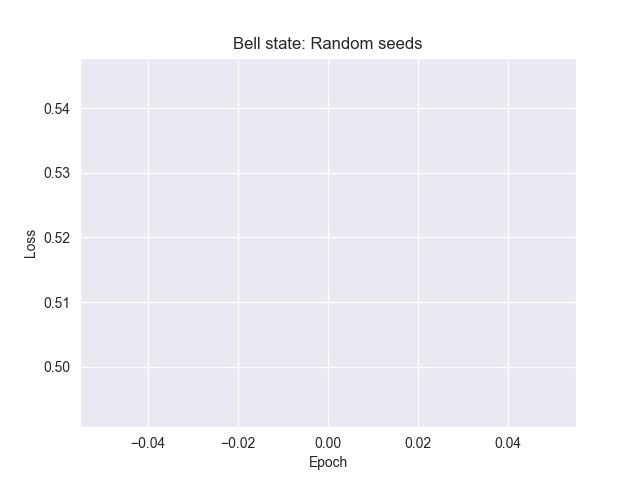
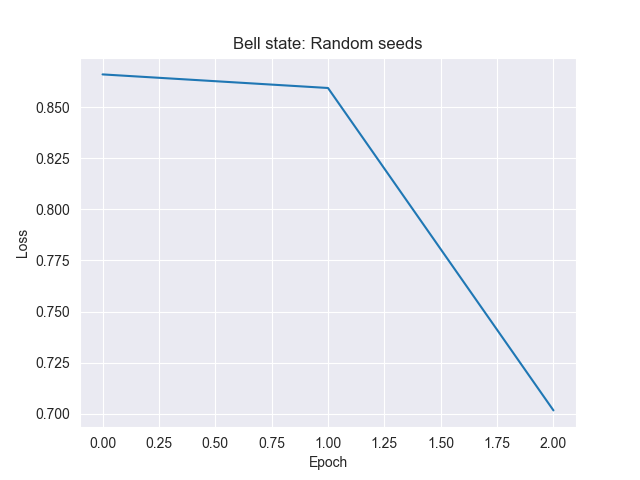
Lets go?

diff --git a/main.py b/main.py
@@ -238,7 +238,7 @@ def train(H_operator, ansatz, n_epochs, target_data, n_steps=10, lr=0.1, optim_m
 
     loss_list=[]
     epoch_list=[]
-
+    norm_list=[]
     tracing_q, rotational_indices=getUtilityParameters(ansatz)
 
     #print(tracing_q, rotational_indices, n_qubits_ansatz)
@@ -275,6 +275,7 @@ def train(H_operator, ansatz, n_epochs, target_data, n_steps=10, lr=0.1, optim_m
         print(f'Loss: {loss, loss_list}')
         norm=np.linalg.norm((target_data-p_QBM), ord=1)
         #Appending loss and epochs
+        norm_list.append(norm)
         loss_list.append(loss)
         epoch_list.append(epoch)
 
@@ -316,7 +317,7 @@ def train(H_operator, ansatz, n_epochs, target_data, n_steps=10, lr=0.1, optim_m
     
     print(f'Time to optimize: {time.time()-optimize_time}')
 
-    return loss_list, norm, p_QBM
+    return np.array(loss_list), np.array(norm_list), p_QBM
 
 
 def multiple_simulations(n_sims, initial_H, ans, epochs, target_data,opt_met , l_r, steps):
@@ -557,14 +558,49 @@ def find_best_alpha(n_steps, alpha_space, name=None):
     return
 
 
+def learningrate_investigation(n_sims, initial_H, ans, epochs, target_data,opt_met , l_r, steps, name):
+    seed_error_l1=[]
+ 
+    for i in range(n_sims):
+        print(f'Seed: {i} of {n_sims}')
+        H_init_val=np.random.uniform(low=-1., high=1., size=len(initial_H))
+        print(H_init_val)
+        
+        for term_H in range(len(initial_H)):
+            for qub in range(len(initial_H[term_H])):
+                initial_H[term_H][qub][0]=H_init_val[term_H]
+        
+        time_1epoch=time.time()
+        loss_temp, norm_temp, dist=train(initial_H, copy.deepcopy(ans), epochs, target_data, n_steps=steps, lr=l_r, optim_method=opt_met, plot=False)
+        time_1epoch_end=time.time()
+        seed_error_l1.append(np.array([loss_temp, norm_temp]))
+        
+        print(f'Time for one loop: {time_1epoch_end-time_1epoch}')
+    
+    seed_error_l1=np.array(seed_error_l1)
+    np.save('results/arrays/learningrate/'+str(l_r)+name+'.npy', seed_error_l1)
+
+    return 
+
+
+
+
+
+
+
+
+
+
+
+
 def main():
     #np.random.seed(1357)
     np.random.seed(2022)
 
-    number_of_seeds=2
+    number_of_seeds=10
     learningRate=0.1
     ite_steps=10
-    epochs=25
+    epochs=3
     optimizing_method='Amsgrad'
 
     ansatz2=  [['ry',0, 0], ['ry',0, 1], ['ry',0, 2], ['ry',0, 3], 
@@ -580,7 +616,7 @@ def main():
 
     p_data2=np.array([0.5, 0, 0, 0.5])
     
-    p_data1=np.array([0.2, 0.8])
+    p_data1=np.array([0.5, 0.5])
 
     ansatz1=    [['ry',0, 0],['ry',0, 1], ['cx', 1,0], ['cx', 0, 1],
                     ['ry',np.pi/2, 0],['ry',0, 1], ['cx', 0, 1]]
@@ -592,17 +628,24 @@ def main():
     Ham1=np.array(Ham1, dtype=object)
 
     start=time.time()
-    #multiple_simulations(1, Ham1, ansatz1, epochs, p_data1, optimizing_method,l_r=learningRate, steps=ite_steps)
+
+    learningrate_investigation(number_of_seeds, Ham1, ansatz1, epochs, p_data1, optimizing_method,l_r=0.5, steps=ite_steps, name='07')
+    learningrate_investigation(number_of_seeds, Ham1, ansatz1, epochs, p_data1, optimizing_method,l_r=0.1, steps=ite_steps, name='07')
+    learningrate_investigation(number_of_seeds, Ham1, ansatz1, epochs, p_data1, optimizing_method,l_r=0.05, steps=ite_steps, name='07')
+    #multiple_simulations(number_of_seeds, Ham1, ansatz1, epochs, p_data1, optimizing_method,l_r=0.01, steps=ite_steps)
+    #multiple_simulations(number_of_seeds, Ham1, ansatz1, epochs, p_data1, optimizing_method,l_r=0.005, steps=ite_steps)
+    #multiple_simulations(number_of_seeds, Ham1, ansatz1, epochs, p_data1, optimizing_method,l_r=0.002, steps=ite_steps)
+
+
     #multiple_simulations(1, Ham2, ansatz2, 2, p_data2, optimizing_method,l_r=learningRate, steps=10)
     #multiple_simulations(number_of_seeds, Ham1, ansatz1, epochs, p_data1, optimizing_method,l_r=learningRate, steps=ite_steps)
     #multiple_simulations(number_of_seeds, Ham2, ansatz2, epochs, p_data2, optimizing_method,l_r=learningRate, steps=ite_steps)
+    
     end_time=time.time()
     print(f'Final time: {end_time-start}')
 
-    plot_fidelity(10)#, 'fidelity_H1_H2_new_0_001minC')
+    #plot_fidelity(10)#, 'fidelity_H1_H2_new_0_001minC')
     #find_best_alpha(10, np.logspace(-4,1,5))
-
-
 
 
 if __name__ == "__main__":
@@ -696,5 +739,11 @@ Next list:
 
 
     -Change three things: seed, momentum, saved momentum title
+
+
+    - 0.5, 0.1, 0.05. 0.01, 0.005, 0.002
+    - 0.7m,                         0.99
+
+    2 loops
 
 """

diff --git a/varQITE.py b/varQITE.py
@@ -254,7 +254,7 @@ class varQITE:
                         model_R.fit(A_mat, C_vec)
                         omega_derivative_temp=model_R.coef_
                         loss_temp=mean_squared_error(C_vec,A_mat@omega_derivative_temp)
-                        print(loss_temp, lambdas_list[lmb])
+                        #print(loss_temp, lambdas_list[lmb])
                         
                         if loss_temp<loss:
                             final_lmb=lambdas_list[lmb]
@@ -296,7 +296,7 @@ class varQITE:
                     model_R = Ridge(alpha=final_lmb)
                     model_R.fit(A_mat, C_vec)
                     omega_derivative_temp=model_R.coef_
-                    print(mean_squared_error(C_vec,A_mat@omega_derivative_temp), final_lmb)
+                    #print(mean_squared_error(C_vec,A_mat@omega_derivative_temp), final_lmb)
 
                     
                     #model_R = BayesianRidge(lambda_init=0.5)
@@ -385,16 +385,19 @@ class varQITE:
                         
                         #temp_loss_d=mean_squared_error(rh_side,A_mat@w_dtheta_dt)
                         #print(f'Loss from ridge derivert: {temp_loss_d}')
-                        for lmb in lambdas_list:
-                            model_dR = Ridge(alpha=lmb)
+                        
+                        loss2=1e8
+                        for lmb in range(len(lambdas_list)):
+                            model_dR = Ridge(alpha=lambdas_list[lmb])
                             model_dR.fit(A_mat, rh_side)
                             w_dtheta_dt=model_dR.coef_
-                            loss=mean_squared_error(rh_side,A_mat@w_dtheta_dt)
+                            loss_temp2=mean_squared_error(rh_side,A_mat@w_dtheta_dt)
                             #print(loss, lmb)
-                            loss_list.append(loss)
+                            
+                            if loss_temp2<loss2:
+                                final_lmb2=lambdas_list[lmb]
+                                loss2=loss_temp2
 
-                        final_lmb_2=lambdas_list[loss_list.index(min(loss_list))]
-                        loss_list=[]
                         """
                         loss=1000
                         lmb_2=0.1
@@ -418,7 +421,7 @@ class varQITE:
                         
                         #print(f'Derivert: loss_: {min(loss_list_2)}, lmb: {lmb_2}')
                         
-                        model_dR = Ridge(alpha=final_lmb_2)
+                        model_dR = Ridge(alpha=final_lmb2)
                         model_dR.fit(A_mat, rh_side)
                         w_dtheta_dt=model_dR.coef_
                         

diff --git a/analyzer.py b/analyzer.py
@@ -1,0 +1,6 @@
+
+import numpy as np
+
+x=np.load('results/arrays/learningrate0.507.npy', allow_pickle=True)
+
+print(x)
